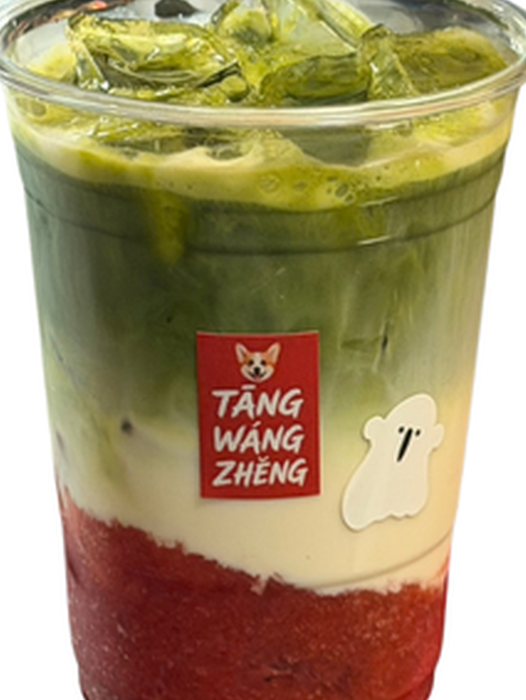
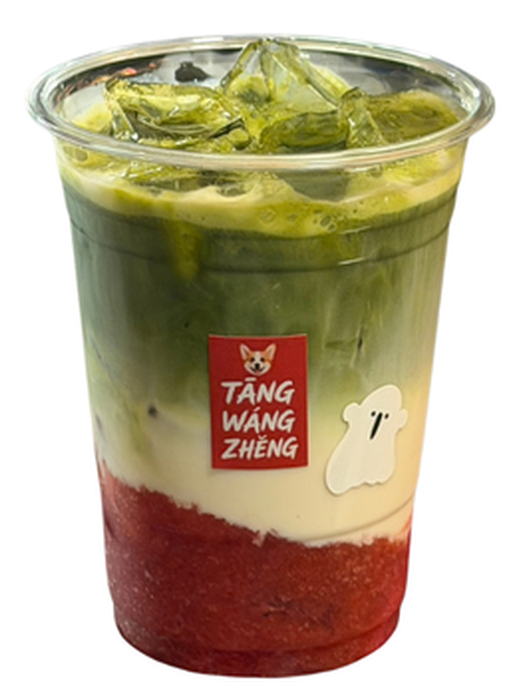
ลดขนาดชาเขียวสตอเบอรี่ให้เป็นขนาดมาตรฐาน

diff --git a/replace_images.py b/replace_images.py
@@ -1,0 +1,66 @@
+from PIL import Image
+import shutil
+import os
+
+# กำหนดไฟล์ต้นทางและปลายทาง
+replacements = [
+    {
+        "source": r"e:\AI Detection\Coffee\อเมริกาโน่1.png",
+        "target": r"e:\AI Detection\Coffee\images\กาแฟ\americano-cold.png",
+        "name": "อเมริกาโน่เย็น"
+    },
+    {
+        "source": r"e:\AI Detection\Coffee\ชาเขียวสตอ1.png",
+        "target": r"e:\AI Detection\Coffee\images\ชานม\green-tea-strawberry.png",
+        "name": "ชาเขียวสตอเบอรี่"
+    }
+]
+
+# ขนาดมาตรฐานที่ต้องการ (อ้างอิงจากรูปอื่นๆ)
+TARGET_SIZE = (526, 700)  # ประมาณขนาดเฉลี่ยของรูปอื่นๆ
+
+for item in replacements:
+    source = item["source"]
+    target = item["target"]
+    name = item["name"]
+    
+    if not os.path.exists(source):
+        print(f"❌ ไม่พบไฟล์: {source}")
+        continue
+    
+    print(f"\n📷 {name}")
+    
+    # เปิดรูปต้นฉบับ
+    img = Image.open(source)
+    original_size = img.size
+    print(f"  ขนาดต้นฉบับ: {original_size[0]}x{original_size[1]}")
+    
+    # คำนวณอัตราส่วนการ resize
+    width_ratio = TARGET_SIZE[0] / original_size[0]
+    height_ratio = TARGET_SIZE[1] / original_size[1]
+    ratio = min(width_ratio, height_ratio) * 1.18  # ขยายเล็กน้อยเหมือนรูปชา
+    
+    new_size = (int(original_size[0] * ratio), int(original_size[1] * ratio))
+    
+    # Resize
+    resized = img.resize(new_size, Image.Resampling.LANCZOS)
+    print(f"  Resize เป็น: {new_size[0]}x{new_size[1]}")
+    
+    # Crop ส่วนกลางให้ได้ขนาดพอดี
+    if new_size[0] > TARGET_SIZE[0] or new_size[1] > TARGET_SIZE[1]:
+        left = (new_size[0] - TARGET_SIZE[0]) // 2
+        top = (new_size[1] - TARGET_SIZE[1]) // 2
+        right = left + TARGET_SIZE[0]
+        bottom = top + TARGET_SIZE[1]
+        
+        final = resized.crop((left, top, right, bottom))
+        print(f"  Crop เป็น: {TARGET_SIZE[0]}x{TARGET_SIZE[1]}")
+    else:
+        # ถ้าเล็กกว่า ก็ใช้ขนาดที่ resize แล้ว
+        final = resized
+    
+    # บันทึกทับไฟล์เดิม
+    final.save(target, optimize=True)
+    print(f"  ✅ บันทึกแทนที่: {os.path.basename(target)}")
+
+print("\n🎉 เสร็จสิ้นทั้งหมด!")

diff --git a/adjust_americano.py b/adjust_americano.py
@@ -1,0 +1,53 @@
+from PIL import Image
+import os
+
+# ไฟล์ที่ต้องการปรับ
+img_path = r"e:\AI Detection\Coffee\อเมริกาโน่1.png"
+target_path = r"e:\AI Detection\Coffee\images\กาแฟ\americano-cold.png"
+
+if not os.path.exists(img_path):
+    print(f"❌ ไม่พบไฟล์: {img_path}")
+    exit()
+
+print("📷 ปรับขนาดอเมริกาโน่เย็น")
+
+# เปิดรูปต้นฉบับ
+img = Image.open(img_path)
+original_size = img.size
+print(f"  ขนาดต้นฉบับ: {original_size[0]}x{original_size[1]}")
+
+# ขนาดเป้าหมาย - ลดลงจากเดิม
+TARGET_SIZE = (526, 700)
+
+# ลด zoom factor ลงเหลือ 1.0 (ไม่ขยายเลย)
+width_ratio = TARGET_SIZE[0] / original_size[0]
+height_ratio = TARGET_SIZE[1] / original_size[1]
+ratio = min(width_ratio, height_ratio) * 1.0  # ไม่ขยาย
+
+new_size = (int(original_size[0] * ratio), int(original_size[1] * ratio))
+
+# Resize
+resized = img.resize(new_size, Image.Resampling.LANCZOS)
+print(f"  Resize เป็น: {new_size[0]}x{new_size[1]}")
+
+# ถ้า resize แล้วยังใหญ่กว่า ให้ crop
+if new_size[0] > TARGET_SIZE[0] or new_size[1] > TARGET_SIZE[1]:
+    left = (new_size[0] - TARGET_SIZE[0]) // 2
+    top = (new_size[1] - TARGET_SIZE[1]) // 2
+    right = left + TARGET_SIZE[0]
+    bottom = top + TARGET_SIZE[1]
+    
+    final = resized.crop((left, top, right, bottom))
+    print(f"  Crop เป็น: {TARGET_SIZE[0]}x{TARGET_SIZE[1]}")
+else:
+    # ถ้าเล็กกว่า สร้าง canvas ขาวแล้ววางรูปตรงกลาง
+    canvas = Image.new('RGBA', TARGET_SIZE, (255, 255, 255, 0))
+    paste_x = (TARGET_SIZE[0] - new_size[0]) // 2
+    paste_y = (TARGET_SIZE[1] - new_size[1]) // 2
+    canvas.paste(resized, (paste_x, paste_y), resized if resized.mode == 'RGBA' else None)
+    final = canvas
+    print(f"  วางรูปตรงกลาง canvas: {TARGET_SIZE[0]}x{TARGET_SIZE[1]}")
+
+# บันทึก
+final.save(target_path, optimize=True)
+print(f"  ✅ บันทึกสำเร็จ: {os.path.basename(target_path)}")

diff --git a/adjust_green_tea_strawberry.py b/adjust_green_tea_strawberry.py
@@ -1,0 +1,43 @@
+from PIL import Image
+import os
+
+# ไฟล์ที่ต้องการปรับ
+img_path = r"e:\AI Detection\Coffee\ชาเขียวสตอ1.png"
+target_path = r"e:\AI Detection\Coffee\images\ชานม\green-tea-strawberry.png"
+
+if not os.path.exists(img_path):
+    print(f"❌ ไม่พบไฟล์: {img_path}")
+    exit()
+
+print("📷 ปรับขนาดชาเขียวสตอเบอรี่")
+
+# เปิดรูปต้นฉบับ
+img = Image.open(img_path)
+original_size = img.size
+print(f"  ขนาดต้นฉบับ: {original_size[0]}x{original_size[1]}")
+
+# ขนาดเป้าหมายมาตรฐาน
+TARGET_SIZE = (526, 700)
+
+# ไม่ขยายเลย ใช้ขนาดจริง (zoom 0.95x เพื่อให้เล็กลงนิดหน่อย)
+width_ratio = TARGET_SIZE[0] / original_size[0]
+height_ratio = TARGET_SIZE[1] / original_size[1]
+ratio = min(width_ratio, height_ratio) * 0.95  # ลดลงเล็กน้อย
+
+new_size = (int(original_size[0] * ratio), int(original_size[1] * ratio))
+
+# Resize
+resized = img.resize(new_size, Image.Resampling.LANCZOS)
+print(f"  Resize เป็น: {new_size[0]}x{new_size[1]}")
+
+# สร้าง canvas โปร่งใสแล้ววางรูปตรงกลาง
+canvas = Image.new('RGBA', TARGET_SIZE, (255, 255, 255, 0))
+paste_x = (TARGET_SIZE[0] - new_size[0]) // 2
+paste_y = (TARGET_SIZE[1] - new_size[1]) // 2
+canvas.paste(resized, (paste_x, paste_y), resized if resized.mode == 'RGBA' else None)
+
+print(f"  วางรูปตรงกลาง canvas: {TARGET_SIZE[0]}x{TARGET_SIZE[1]}")
+
+# บันทึก
+canvas.save(target_path, optimize=True)
+print(f"  ✅ บันทึกสำเร็จ: {os.path.basename(target_path)}")

diff --git a/crop_tea.py b/crop_tea.py
@@ -1,0 +1,47 @@
+from PIL import Image
+import os
+
+# รูปที่ต้องการ crop
+images_to_crop = [
+    r"e:\AI Detection\Coffee\images\ชานม\thai-tea.png",
+    r"e:\AI Detection\Coffee\images\ชานม\green-tea.png"
+]
+
+for img_path in images_to_crop:
+    if not os.path.exists(img_path):
+        print(f"ไม่พบไฟล์: {img_path}")
+        continue
+    
+    # เปิดรูปภาพ
+    img = Image.open(img_path)
+    
+    # ขนาดปัจจุบัน
+    width, height = img.size
+    print(f"ไฟล์: {os.path.basename(img_path)}")
+    print(f"  ขนาดเดิม: {width}x{height}")
+    
+    # คำนวณ crop box เพื่อซูมเข้าไปในภาพ (เอาส่วนกลางออกมา 85%)
+    crop_factor = 0.85  # เอา 85% ของภาพ (ซูมเข้า ~1.18x)
+    
+    new_width = int(width * crop_factor)
+    new_height = int(height * crop_factor)
+    
+    # หา center
+    left = (width - new_width) // 2
+    top = (height - new_height) // 2
+    right = left + new_width
+    bottom = top + new_height
+    
+    # Crop
+    cropped = img.crop((left, top, right, bottom))
+    
+    # Resize กลับไปเป็นขนาดเดิมเพื่อให้ดูใหญ่ขึ้น
+    final = cropped.resize((width, height), Image.Resampling.LANCZOS)
+    
+    print(f"  Crop: {new_width}x{new_height} -> Resize: {width}x{height}")
+    
+    # บันทึกทับไฟล์เดิม
+    final.save(img_path, optimize=True)
+    print(f"  ✓ บันทึกสำเร็จ (ซูมเข้า {int((1/crop_factor)*100)}%)")
+
+print("\nเสร็จสิ้น!")

diff --git a/resize_tea.py b/resize_tea.py
@@ -1,0 +1,36 @@
+from PIL import Image
+import os
+
+# รูปที่ต้องการปรับขนาด
+images_to_resize = [
+    r"e:\AI Detection\Coffee\images\ชานม\thai-tea.png",
+    r"e:\AI Detection\Coffee\images\ชานม\green-tea.png"
+]
+
+for img_path in images_to_resize:
+    if not os.path.exists(img_path):
+        print(f"ไม่พบไฟล์: {img_path}")
+        continue
+    
+    # เปิดรูปภาพ
+    img = Image.open(img_path)
+    
+    # ขนาดปัจจุบัน
+    original_width, original_height = img.size
+    print(f"ไฟล์: {os.path.basename(img_path)}")
+    print(f"  ขนาดเดิม: {original_width}x{original_height}")
+    
+    # ขยายขนาดขึ้น 40% (คูณด้วย 1.40)
+    new_width = int(original_width * 1.40)
+    new_height = int(original_height * 1.40)
+    
+    # Resize โดยใช้ LANCZOS เพื่อคุณภาพที่ดี
+    resized_img = img.resize((new_width, new_height), Image.Resampling.LANCZOS)
+    
+    print(f"  ขนาดใหม่: {new_width}x{new_height}")
+    
+    # บันทึกทับไฟล์เดิม
+    resized_img.save(img_path, optimize=True)
+    print(f"  ✓ บันทึกสำเร็จ")
+
+print("\nเสร็จสิ้น!")
